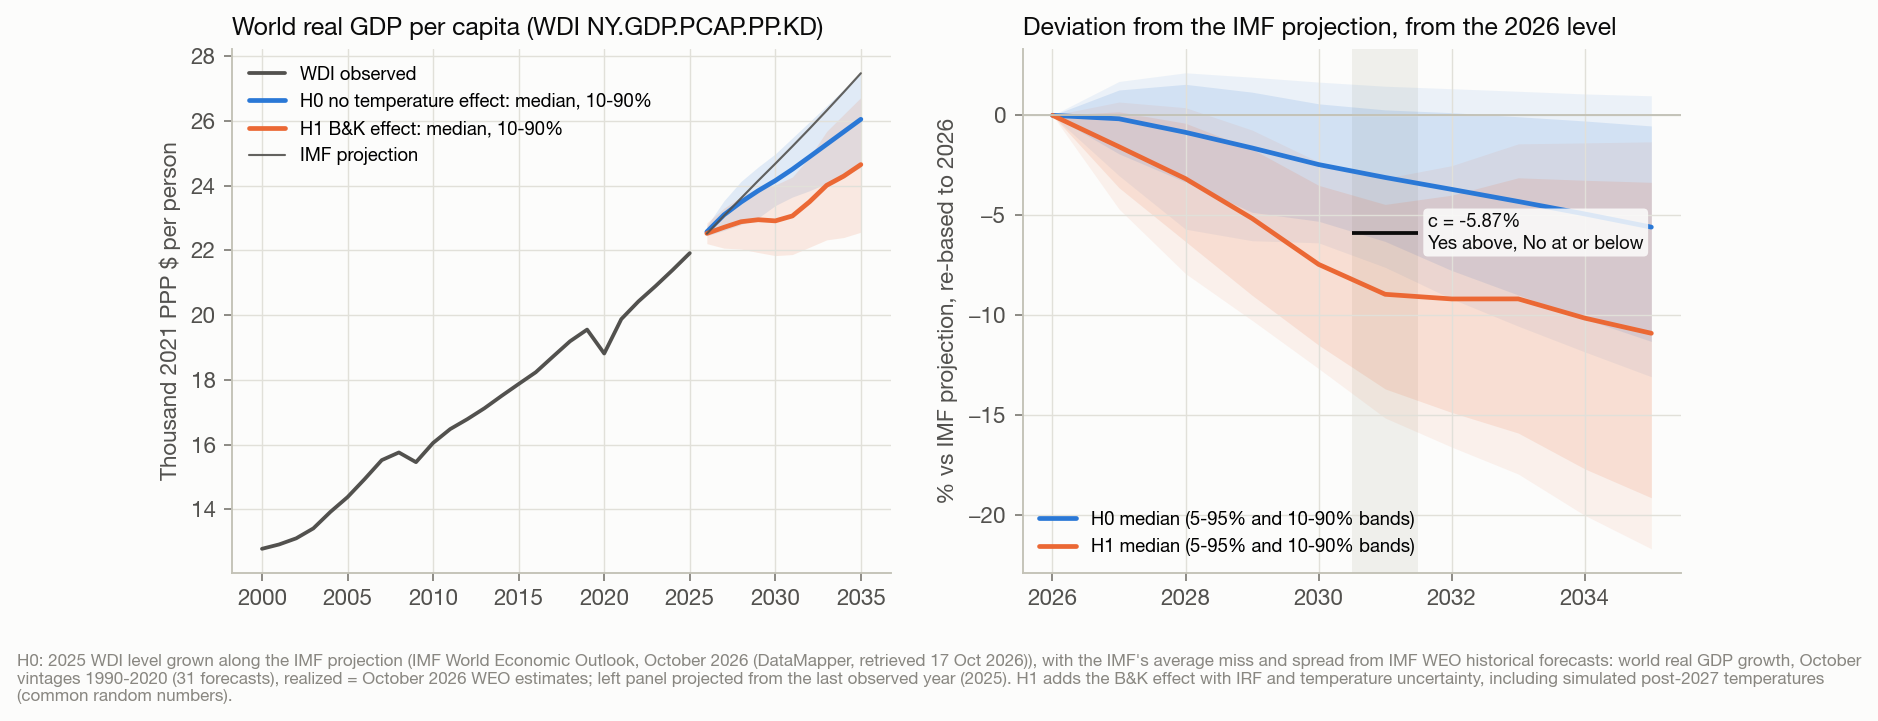
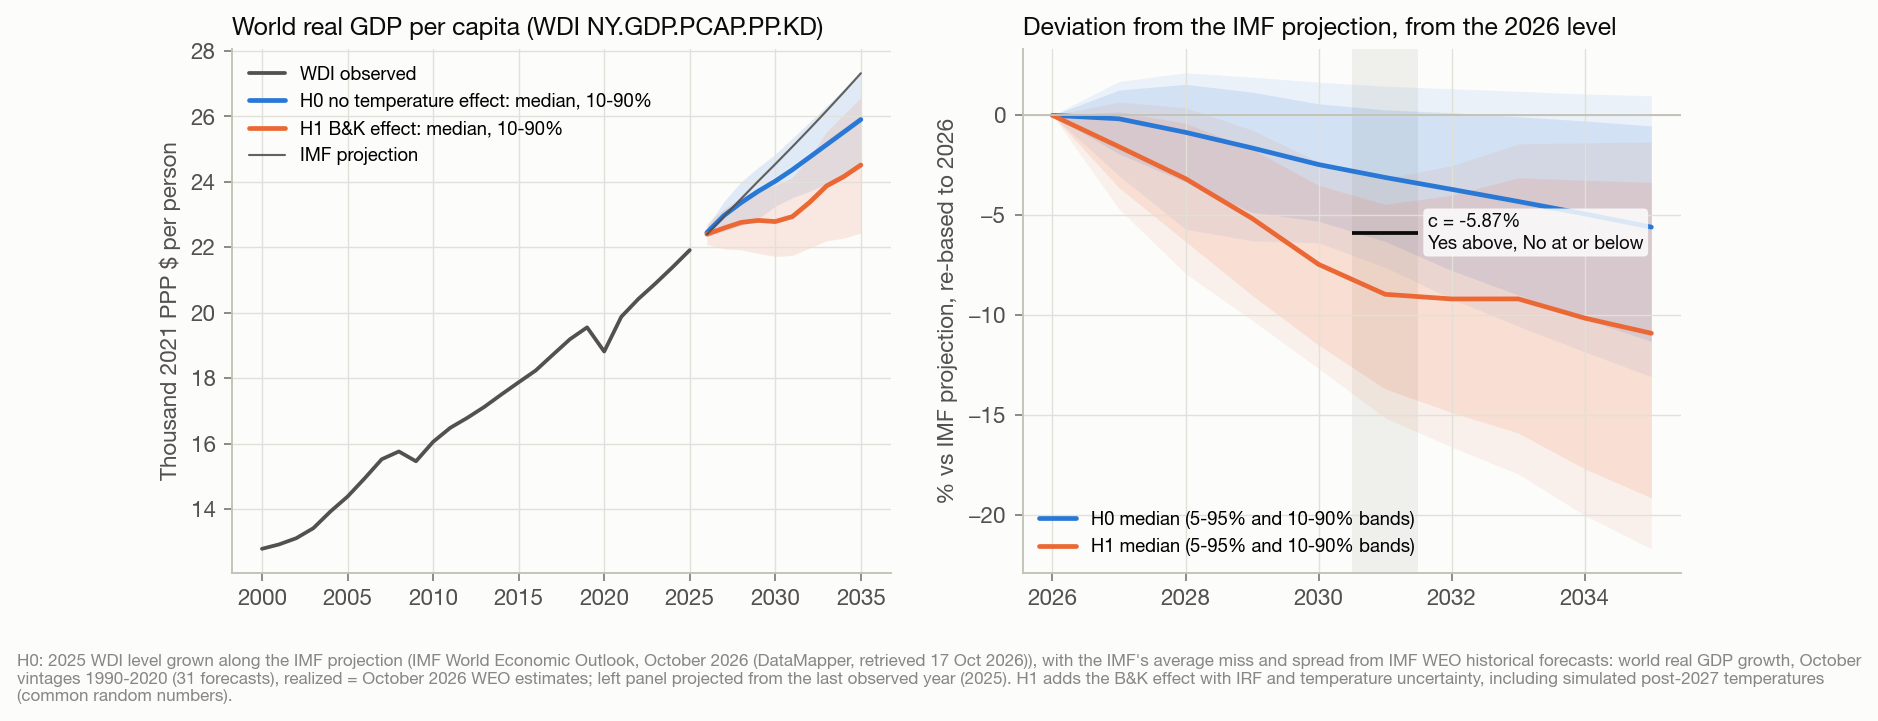
Use the countries' own population growth where the IMF's 2026 world total breaks
The October 2026 WEO's world population total leaves out Afghanistan from 2026, so its
growth that year is 0.28% against 0.82% for the countries with figures in both years, and
the background's 2026 per-capita growth was 0.54 points too high. A projection year whose
total differs from the countries' sum by more than 0.1 points now takes the countries'
growth, read from the IMF's country list (README). Only 2026 qualifies. It falls before the
growth period, so the contract's numbers are unchanged; Fig. 1a's levels fall about 0.5%,
and two old variants measured from 2025 move from 1.36% to 1.30% in MEMO. The page's
published levels keep three decimals so its labels match the Letter's figure.

diff --git a/bk_elnino/imf_baseline.py b/bk_elnino/imf_baseline.py
@@ -4,6 +4,10 @@ Baseline: per-capita growth implied by the IMF's world real GDP growth and world
 projections (one WEO vintage, frozen), plus the mean gap between WDI per-capita growth and
 the IMF-implied figure over 1991-2025, so it is in the units of the settlement series
 (WDI NY.GDP.PCAP.PP.KD). Past the last IMF projection year the last projected rate is held.
+World population growth is the IMF's world total's, except in a projection year where the total
+breaks: there it is summed over the countries with figures in both years (``countries.json``,
+the DataMapper's country list). The October 2026 total drops Afghanistan in 2026, the first year
+without a figure for it, so its growth falls to 0.28% against 0.82% for the countries.
 
 Spread: the IMF's own historical forecast errors (realized minus forecast world real GDP
 growth, by years ahead of the vintage), resampled as whole vintage error paths so that
@@ -15,7 +19,7 @@ from __future__ import annotations
 
 import json
 import re
-from dataclasses import dataclass
+from dataclasses import dataclass, field
 from pathlib import Path
 
 import numpy as np
@@ -25,6 +29,7 @@ from . import baseline as B
 from . import xlsx as XL
 
 GAP_YEARS = (1991, 2025)
+BREAK_PP = 0.1      # a projection year whose world population growth is this far from the countries' is a break
 
 
 @dataclass(frozen=True)
@@ -34,6 +39,7 @@ class Baseline:
     imf_growth: pd.Series      # IMF-implied per-capita growth before the WDI gap
     projected_through: int
     wdi_gap: float
+    population_repairs: dict = field(default_factory=dict)    # year -> the world total's and the countries' growth
 
     def window_mean(self, base: int, end: int) -> float:
         return float(self.growth.loc[base + 1:end].mean())
@@ -47,11 +53,30 @@ def _datamapper_series(path: Path, indicator: str, area: str = "WEOWORLD") -> pd
     return pd.Series({int(k): float(v) for k, v in d.items()}).sort_index()
 
 
+def population_growth(imf_dir: Path, after: int) -> tuple[pd.Series, dict]:
+    """World population growth (100 x log) from the IMF's world total, with each projection year
+    (after ``after``) that breaks replaced by growth summed over the countries with figures in
+    both years. Breaks in earlier years, when countries joined the IMF's data, stay: the WDI gap
+    is fitted on them, and the total tracks WDI growth more closely there than the countries' sum."""
+    lp = json.loads((imf_dir / "LP.json").read_text())["values"]["LP"]
+    pop = pd.Series({int(k): float(v) for k, v in lp["WEOWORLD"].items()}).sort_index()
+    growth = 100 * np.log(pop / pop.shift(1))
+    countries = [lp[c] for c in json.loads((imf_dir / "countries.json").read_text())["countries"] if c in lp]
+    repairs = {}
+    for t in growth.index[growth.index > after]:
+        both = [c for c in countries if str(t - 1) in c and str(t) in c]
+        own = float(100 * np.log(sum(c[str(t)] for c in both) / sum(c[str(t - 1)] for c in both)))
+        if abs(own - growth[t]) > BREAK_PP:
+            repairs[int(t)] = {"world_total_pp": float(growth[t]), "countries_pp": own, "n_countries": len(both)}
+            growth[t] = own
+    return growth, repairs
+
+
 def load_baseline(imf_dir: Path, wdi: pd.Series, last_year: int, vintage: str) -> Baseline:
     g = _datamapper_series(imf_dir / "NGDP_RPCH.json", "NGDP_RPCH")
-    pop = _datamapper_series(imf_dir / "LP.json", "LP")
-    imf_pc = (100 * np.log1p(g / 100) - 100 * np.log(pop / pop.shift(1))).dropna()
     wdi_g = B.log_growth(wdi)
+    pop_g, repairs = population_growth(imf_dir, int(wdi_g.index.max()))
+    imf_pc = (100 * np.log1p(g / 100) - pop_g).dropna()
     common = imf_pc.index.intersection(wdi_g.index)
     common = [t for t in common if GAP_YEARS[0] <= t <= GAP_YEARS[1]]
     gap = float((wdi_g.loc[common] - imf_pc.loc[common]).mean())
@@ -59,7 +84,7 @@ def load_baseline(imf_dir: Path, wdi: pd.Series, last_year: int, vintage: str) -
     grown = imf_pc + gap
     ext = pd.Series({t: grown.loc[through] for t in range(through + 1, last_year + 1)})
     full = pd.concat([grown, ext]).sort_index()
-    return Baseline(vintage, full, imf_pc, through, gap)
+    return Baseline(vintage, full, imf_pc, through, gap, repairs)
 
 
 @dataclass(frozen=True)

diff --git a/tests/test_future_imf.py b/tests/test_future_imf.py
@@ -65,6 +65,22 @@ def test_imf_baseline_units_and_extension():
     assert b.window_mean(2027, 2030) == pytest.approx(b.growth.loc[2028:2030].mean())
 
 
+def test_imf_population_break_uses_the_countries():
+    """The October 2026 world total drops Afghanistan in 2026; that year's population growth is
+    the countries' own, and every other year keeps the world total's (so the WDI gap is unchanged)."""
+    wdi = pd.Series(np.exp(np.linspace(9.0, 10.0, 41)), index=range(1985, 2026))
+    b = IB.load_baseline(ROOT / "data/raw/imf", wdi, 2037, "test vintage")
+    assert list(b.population_repairs) == [2026]
+    r = b.population_repairs[2026]
+    assert r["world_total_pp"] == pytest.approx(0.28, abs=0.01) and r["countries_pp"] == pytest.approx(0.82, abs=0.01)
+    g = json.loads((ROOT / "data/raw/imf/NGDP_RPCH.json").read_text())["values"]["NGDP_RPCH"]["WEOWORLD"]
+    lp = json.loads((ROOT / "data/raw/imf/LP.json").read_text())["values"]["LP"]["WEOWORLD"]
+    assert b.imf_growth.loc[2026] == pytest.approx(100 * np.log1p(g["2026"] / 100) - r["countries_pp"])
+    for t in (1992, 2011, 2025, 2027, 2031):
+        assert b.imf_growth.loc[t] == pytest.approx(100 * np.log1p(g[str(t)] / 100)
+                                                    - 100 * np.log(lp[str(t)] / lp[str(t - 1)]))
+
+
 def test_error_paths_keep_mean_and_variance():
     rng = np.random.default_rng(5)
     paths = rng.normal(0.2, 1.0, size=(40, 6)) + rng.normal(0, 0.8, size=(40, 1))   # persistent component

diff --git a/build_site_data.py b/build_site_data.py
@@ -289,7 +289,7 @@ def main():
             "imfMissIfCentred": res["imf_miss_if_centred"],
             # the Letter's figures at the published settings: GDP levels and temperatures (Fig. 1a), the
             # sensitivity rows (Fig. 4), the trend baseline's start year and a known 2027 value
-            "levels": {str(t): {v: [round(float(bands.loc[t, f"{k}_level_q{q:02d}"]), 1) for q in (10, 50, 90)]
+            "levels": {str(t): {v: [round(float(bands.loc[t, f"{k}_level_q{q:02d}"]), 3) for q in (10, 50, 90)]
                                 for v, k in (("h0", "H0"), ("h1", "H1"))} for t in YEARS},
             "futureTemperatures": res["future_temperatures"]["levels"],
             "sensitivity": res["sensitivity_table"],

diff --git a/run_analysis.py b/run_analysis.py
@@ -319,6 +319,7 @@ def main(refresh: bool = False):
                                       imf.imf_growth.reindex(g.loc[A.IB.GAP_YEARS[0]:A.IB.GAP_YEARS[1]].index))[0, 1]),
         "growth_pp": {int(t): float(v) for t, v in imf.growth.loc[2026:2037].items()},
         "imf_implied_pp": {int(t): float(v) for t, v in imf.imf_growth.loc[2026:imf.projected_through].items()},
+        "population_repairs": imf.population_repairs,
         "window_mean_pp": imf.window_mean(D.base_year, D.window[1]),
         "errors": {"source": em.source, "n_forecasts": int(em.paths.shape[0]), "max_lead": em.max_lead,
                    "mean_by_lead": em.paths.mean(axis=0), "sd_by_lead": em.paths.std(axis=0, ddof=1),

diff --git a/terms/flagship_terms.md b/terms/flagship_terms.md
@@ -1,6 +1,6 @@
 # World GDP per Capita Growth 2026–2031, above 1.1% (WGDPC, flagship): Contract Terms and Conditions
 
-*Draft for comment, 2026-11-05. Proposed by Patrick T. Brown for listing on ForecastEx, in the layout of ForecastEx's published contract terms; ForecastEx sets the final wording, product codes, listings and thresholds. The end year, the threshold and the chances are indicative and refresh monthly with the analysis until the terms freeze in mid-January 2027.*
+*Draft for comment, 2026-11-10. Proposed by Patrick T. Brown for listing on ForecastEx, in the layout of ForecastEx's published contract terms; ForecastEx sets the final wording, product codes, listings and thresholds. The end year, the threshold and the chances are indicative and refresh monthly with the analysis until the terms freeze in mid-January 2027.*
 
 *This is the 1.1% contract of the plain ladder (WGDPC), set out on its own with every blank filled in. Its terms are the ladder's, written from the same text.*
 
@@ -73,4 +73,4 @@ Whichever range NOAA's 2027 value falls in, that range's 1.1% conditional positi
 
 ### Data and code
 
-Every number here comes from the analysis's latest run (outputs/results.json, 2026-11-05), and build_docs.py rewrites these terms from it at each monthly refresh until the freeze. The code, the published run and its data are at https://github.com/ptbrown31/climate-gdp-contract. The contract's page, https://weather.weatherclimatehumansystems.org/climate-gdp.html, re-runs the model in the browser with its main assumptions on controls. CONTRACT_TERMS.md sets out the full design, the reason for each choice and the objections we expect.
+Every number here comes from the analysis's latest run (outputs/results.json, 2026-11-10), and build_docs.py rewrites these terms from it at each monthly refresh until the freeze. The code, the published run and its data are at https://github.com/ptbrown31/climate-gdp-contract. The contract's page, https://weather.weatherclimatehumansystems.org/climate-gdp.html, re-runs the model in the browser with its main assumptions on controls. CONTRACT_TERMS.md sets out the full design, the reason for each choice and the objections we expect.

diff --git a/MEMO.md b/MEMO.md
@@ -181,8 +181,8 @@ Each row changes one choice at a time and has its own cutoff.
 | Frozen 1991–2019 drift baseline (handoff) | −6.8 | 1.27 | 0.64 |
 | Frozen 2000–19 drift + 0.5 pp drift uncertainty | −6.8 | 1.64 | 0.57 |
 | Growth 2027→2031 (draft until 30 Oct) | −4.6 | 0.96 | 0.60 |
-| Mean level 2029–33 vs 2025 (earlier draft) | −5.3 | 1.36 | 0.59 |
-| Mean level 2031–35 vs 2025 (handoff) | −5.7 | 1.36 | 0.51 |
+| Mean level 2029–33 vs 2025 (earlier draft) | −5.3 | 1.30 | 0.59 |
+| Mean level 2031–35 vs 2025 (handoff) | −5.7 | 1.30 | 0.51 |
 
 - If the truth were only the 2023–27 or only the 2026–27 shocks, the unconditional contract would resolve No 77% / 51% of the time.
 - The predicted size moves most with the IRF family and with how long the warmth persists. What the cutoff means in growth terms moves most with the baseline.
@@ -190,7 +190,7 @@ Each row changes one choice at a time and has its own cutoff.
 ## 11. Interpretation of a result
 
 - **A result tests the paper's prediction for one episode.** Growth at or below the strike is evidence in the direction of the paper's linear world-GDP response, and growth above it is evidence against an effect of that size. Neither outcome identifies causation.
-- **The test is relative.** Under the paper, median world GDP per capita still rises, to ≈$23.1k in 2031 against ≈$24.5k with no effect (the 2025 level is $21.9k).
+- **The test is relative.** Under the paper, median world GDP per capita still rises, to ≈$22.9k in 2031 against ≈$24.4k with no effect (the 2025 level is $21.9k).
 - **The test covers the whole warm sequence.** Both the prediction and the outcome carry the 2023–25 shocks.
 - **The test relies on extrapolation.** The 2024 shock (+0.35 °C) is above the largest in the authors' sample (+0.30 °C in 2016).
 - **Error rates depend on the baseline being right.** The spread assumes the IMF's average miss continues. If its forecasts had become unbiased, the central contract would resolve No only 51% of the time when the paper is right (instead of 82%). If its misses grew, No would come more often with no effect.

diff --git a/terms/conditional_terms.md b/terms/conditional_terms.md
@@ -1,6 +1,6 @@
 # World GDP per Capita Growth, Conditional on NOAA's 2027 Global Temperature (ZGTWGDPC): Contract Terms and Conditions
 
-*Draft for comment, 2026-11-05. Proposed by Patrick T. Brown for listing on ForecastEx, in the layout of ForecastEx's published contract terms; ForecastEx sets the final wording, product codes, listings and thresholds. The end year, the ranges, the thresholds and the chances are indicative and refresh monthly with the analysis until the terms freeze in mid-January 2027.*
+*Draft for comment, 2026-11-10. Proposed by Patrick T. Brown for listing on ForecastEx, in the layout of ForecastEx's published contract terms; ForecastEx sets the final wording, product codes, listings and thresholds. The end year, the ranges, the thresholds and the chances are indicative and refresh monthly with the analysis until the terms freeze in mid-January 2027.*
 
 ## Proposed terms
 
@@ -94,4 +94,4 @@ Each cell gives the chance of Yes if temperature shocks have no effect / if the 
 
 ### Data and code
 
-Every number here comes from the analysis's latest run (outputs/results.json, 2026-11-05), and build_docs.py rewrites these terms from it at each monthly refresh until the freeze. The code, the published run and its data are at https://github.com/ptbrown31/climate-gdp-contract. The contract's page, https://weather.weatherclimatehumansystems.org/climate-gdp.html, re-runs the model in the browser with its main assumptions on controls. CONTRACT_TERMS.md sets out the full design, the reason for each choice and the objections we expect.
+Every number here comes from the analysis's latest run (outputs/results.json, 2026-11-10), and build_docs.py rewrites these terms from it at each monthly refresh until the freeze. The code, the published run and its data are at https://github.com/ptbrown31/climate-gdp-contract. The contract's page, https://weather.weatherclimatehumansystems.org/climate-gdp.html, re-runs the model in the browser with its main assumptions on controls. CONTRACT_TERMS.md sets out the full design, the reason for each choice and the objections we expect.

diff --git a/terms/plain_ladder_terms.md b/terms/plain_ladder_terms.md
@@ -1,6 +1,6 @@
 # World GDP per Capita Growth (WGDPC): Contract Terms and Conditions
 
-*Draft for comment, 2026-11-05. Proposed by Patrick T. Brown for listing on ForecastEx, in the layout of ForecastEx's published contract terms; ForecastEx sets the final wording, product codes, listings and thresholds. The end year, the thresholds and the chances are indicative and refresh monthly with the analysis until the terms freeze in mid-January 2027.*
+*Draft for comment, 2026-11-10. Proposed by Patrick T. Brown for listing on ForecastEx, in the layout of ForecastEx's published contract terms; ForecastEx sets the final wording, product codes, listings and thresholds. The end year, the thresholds and the chances are indicative and refresh monthly with the analysis until the terms freeze in mid-January 2027.*
 
 ## Proposed terms
 
@@ -82,4 +82,4 @@ With no temperature effect, average growth from 2026 to 2031 has a median of 1.6
 
 ### Data and code
 
-Every number here comes from the analysis's latest run (outputs/results.json, 2026-11-05), and build_docs.py rewrites these terms from it at each monthly refresh until the freeze. The code, the published run and its data are at https://github.com/ptbrown31/climate-gdp-contract. The contract's page, https://weather.weatherclimatehumansystems.org/climate-gdp.html, re-runs the model in the browser with its main assumptions on controls. CONTRACT_TERMS.md sets out the full design, the reason for each choice and the objections we expect.
+Every number here comes from the analysis's latest run (outputs/results.json, 2026-11-10), and build_docs.py rewrites these terms from it at each monthly refresh until the freeze. The code, the published run and its data are at https://github.com/ptbrown31/climate-gdp-contract. The contract's page, https://weather.weatherclimatehumansystems.org/climate-gdp.html, re-runs the model in the browser with its main assumptions on controls. CONTRACT_TERMS.md sets out the full design, the reason for each choice and the objections we expect.

diff --git a/README.md b/README.md
@@ -54,6 +54,7 @@ Download each IMF file from its source in the table into the folder shown.
[4 lines of base64/hex data omitted]
 
 The public-domain and CC BY series (NOAA, NASA GISTEMP, the Oceanic Niño indices, World Bank WDI)
 are in `data/raw/` as the published run downloaded them, each with its `vintage.json` (address,

diff --git a/CONTRACT_TERMS.md b/CONTRACT_TERMS.md
@@ -1,6 +1,6 @@
 # Draft contract specification for world GDP per capita after the 2023–27 global temperature shocks
 
-*This is a **draft for comment**, refreshed 2026-11-05. The contracts were redesigned on 30 Oct 2026, and on 4 Nov 2026 their conditioning event moved to ForecastEx's Global Temperature contract (see the changes at the end).*
+*This is a **draft for comment**, refreshed 2026-11-10. The contracts were redesigned on 30 Oct 2026, and on 4 Nov 2026 their conditioning event moved to ForecastEx's Global Temperature contract (see the changes at the end).*
 
 - Three **conditional contracts**, one for each range of NOAA's 2027 global temperature, are proposed to list right after NOAA publishes its **2026 annual value (expected mid-January 2027)**.
 - The **plain ladder** asks the same question with no temperature condition and lists at the same time. Its terms are in `terms/plain_ladder_terms.md`.
